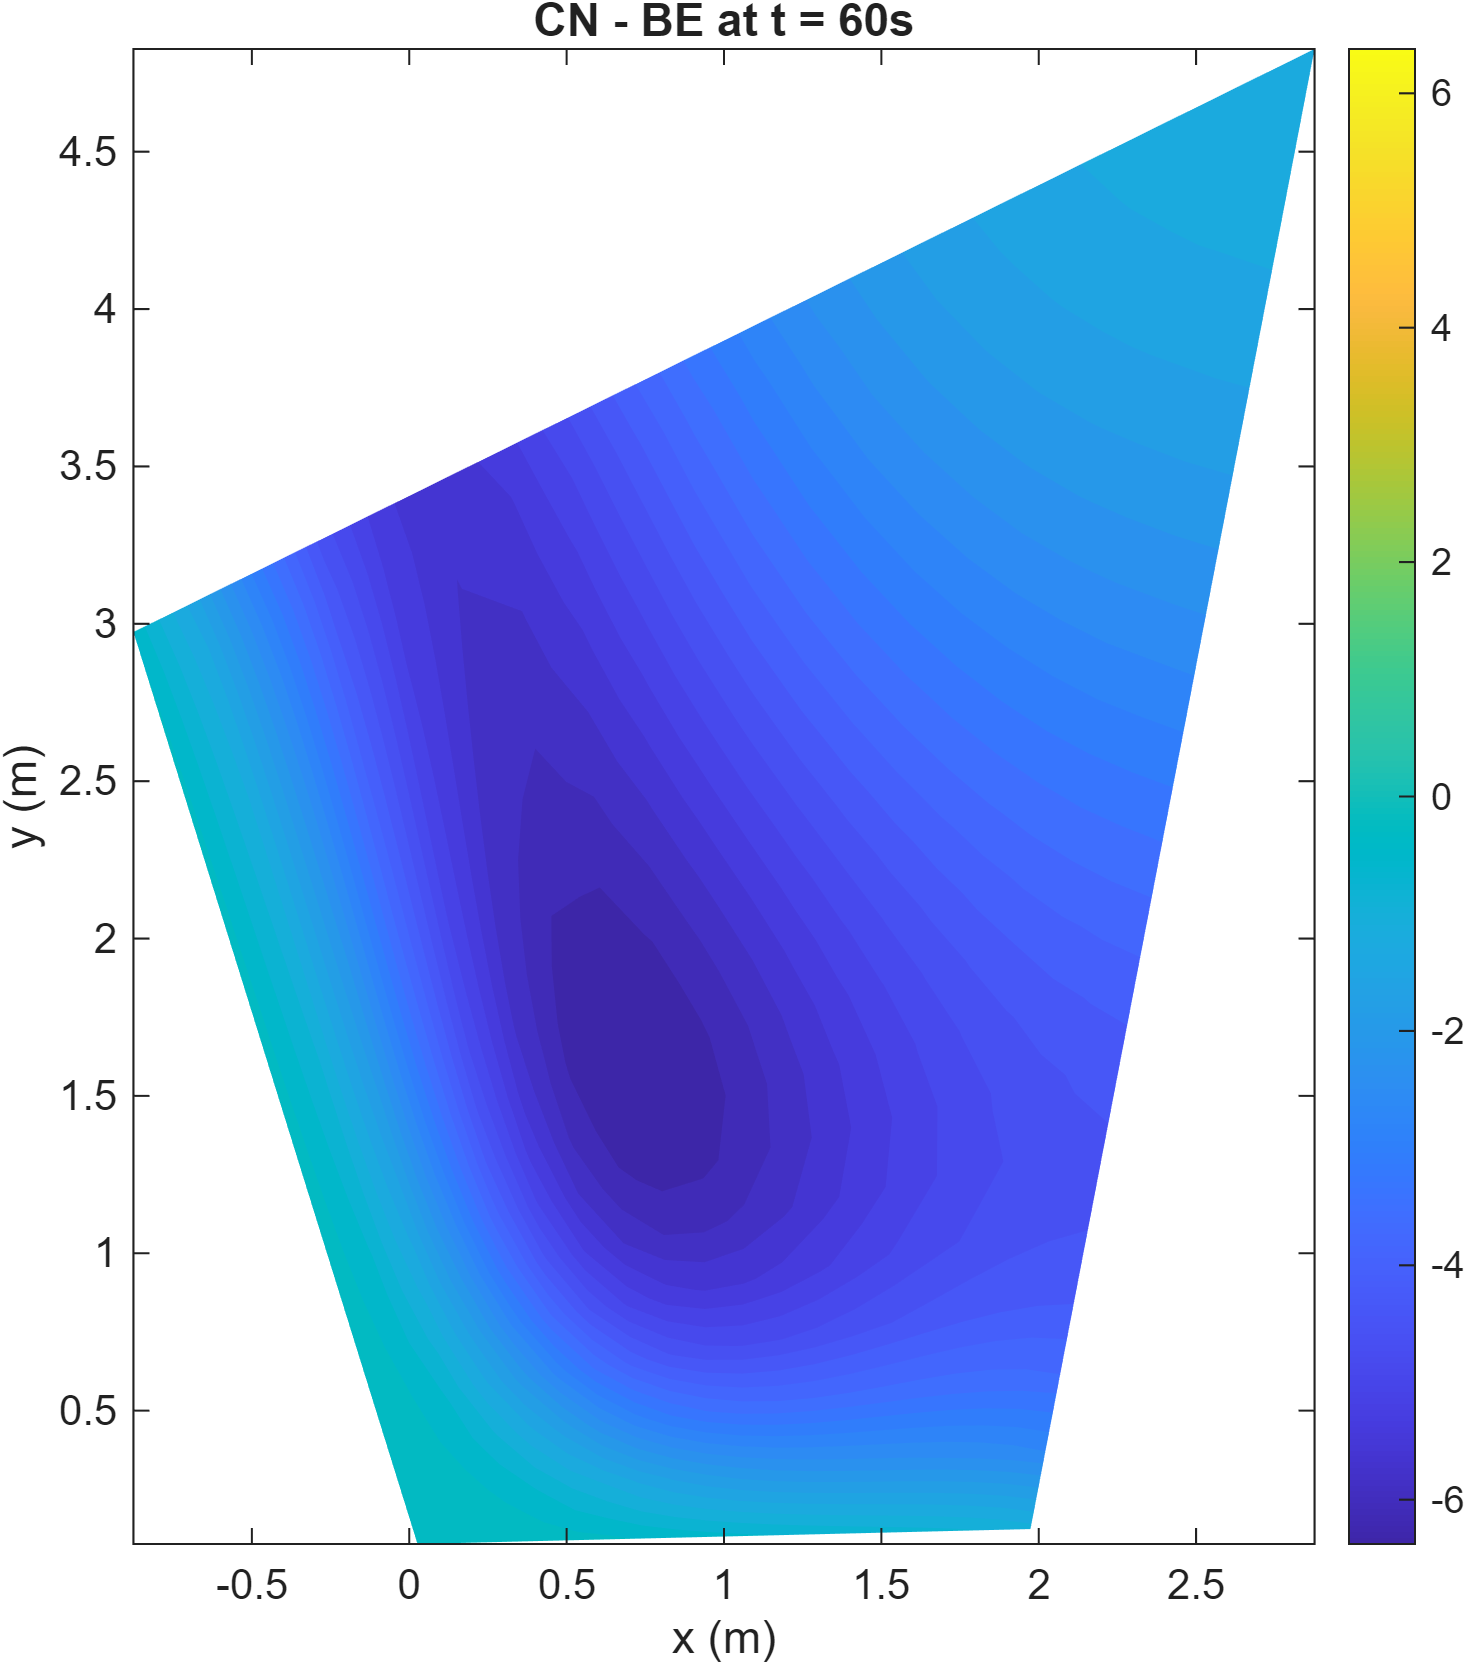
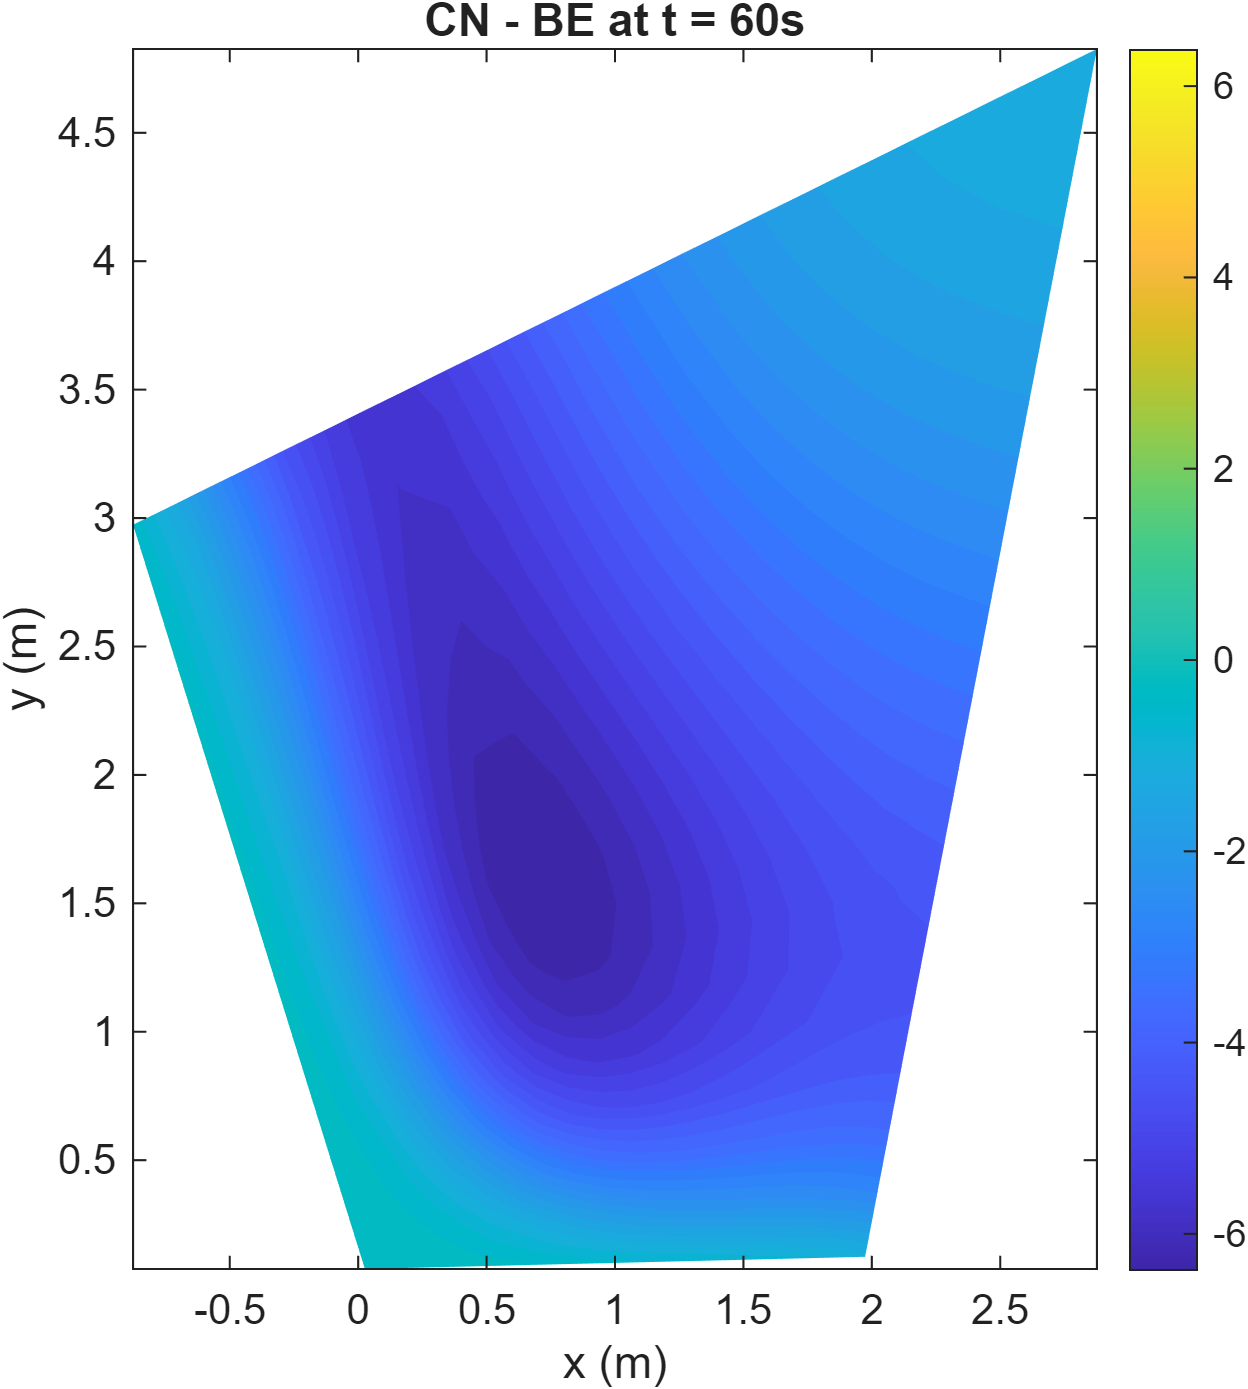
figures

diff --git a/Transient Term 663/MAIN_Uniform.m b/Transient Term 663/MAIN_Uniform.m
@@ -126,7 +126,7 @@ T_be = solveLinearSystem(aE,aW,aN,aS,aC,bC,Nx,Ny,T_be_prev,solver);
 
     % update previous BE level for next step
     T_be_prev = T_be;
-
+1
     % save at required times
     for kk = 1:length(save_times)
         if t == save_times(kk)

diff --git a/Transient Term 663/Main_non_uniform.m b/Transient Term 663/Main_non_uniform.m
@@ -11,10 +11,10 @@ v = 10/sqrt(2);
 rho    = 1;
 cp     = 500;
 dt     = 1;
-t_end  = 200;
+t_end  = 120;
 Nsteps = t_end/dt;
 
-save_times = [10 30 200];
+save_times = [10 30 60];
 
 solver.type    = 'TDMA';
 solver.maxIter = 5000;
